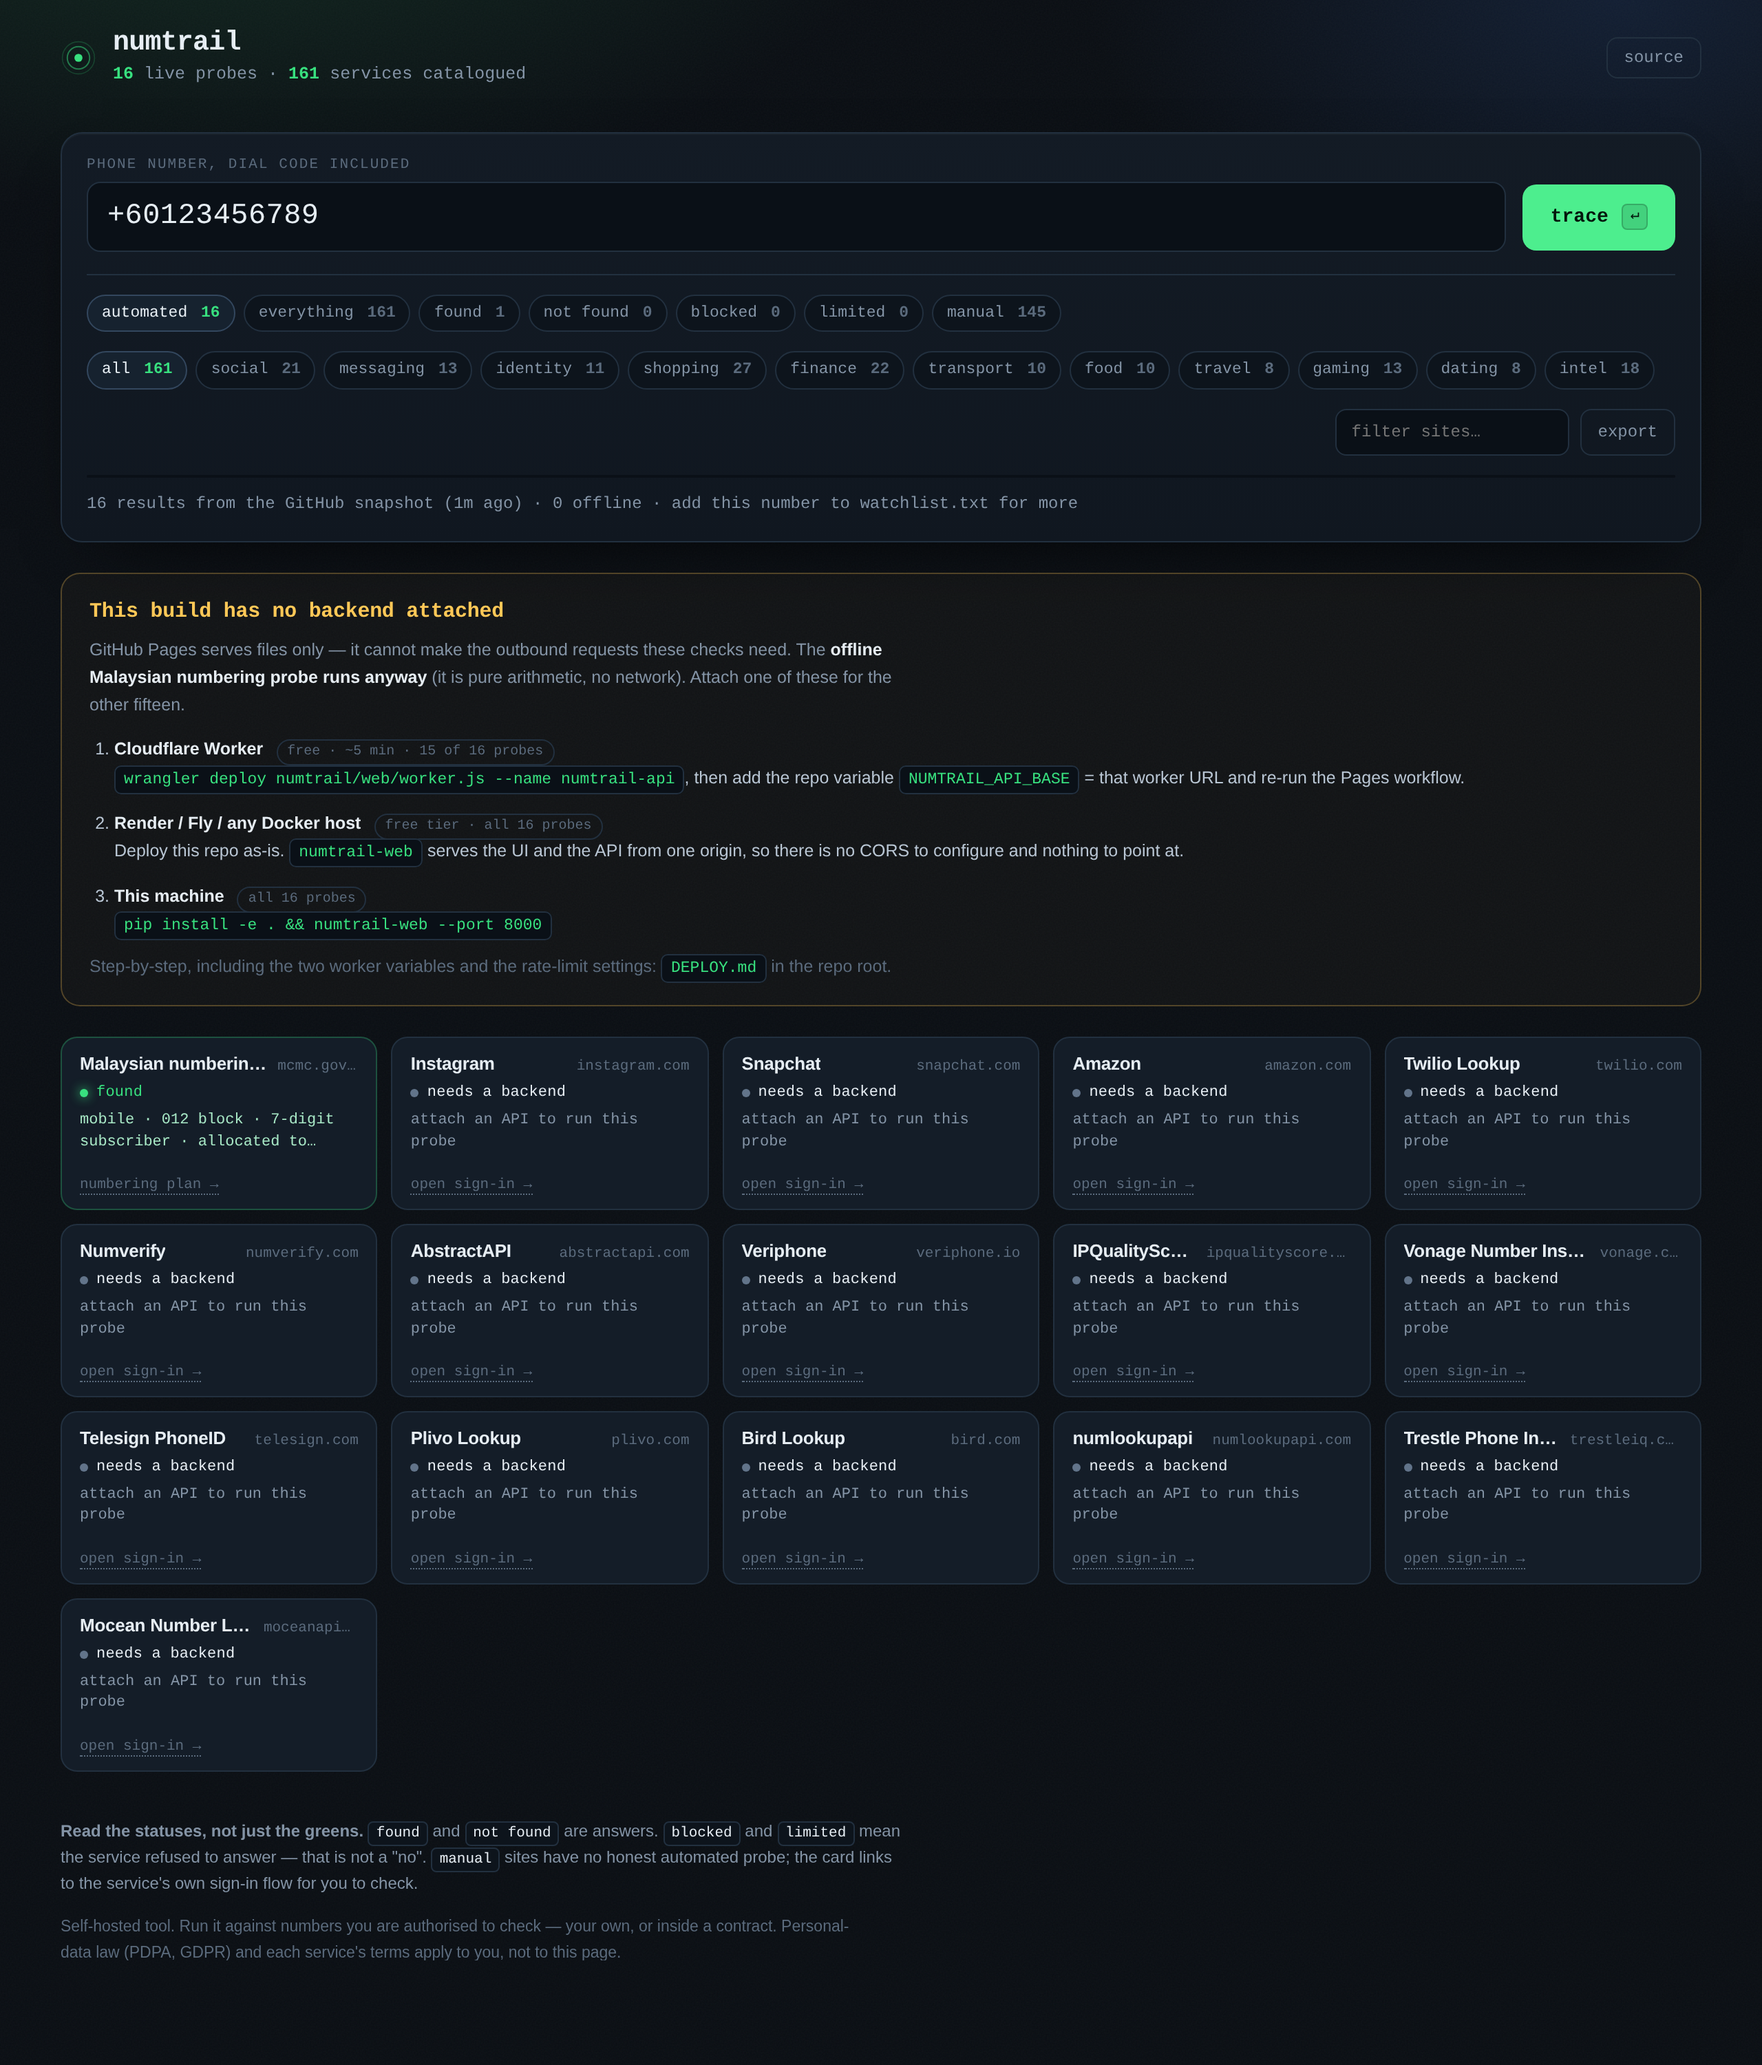
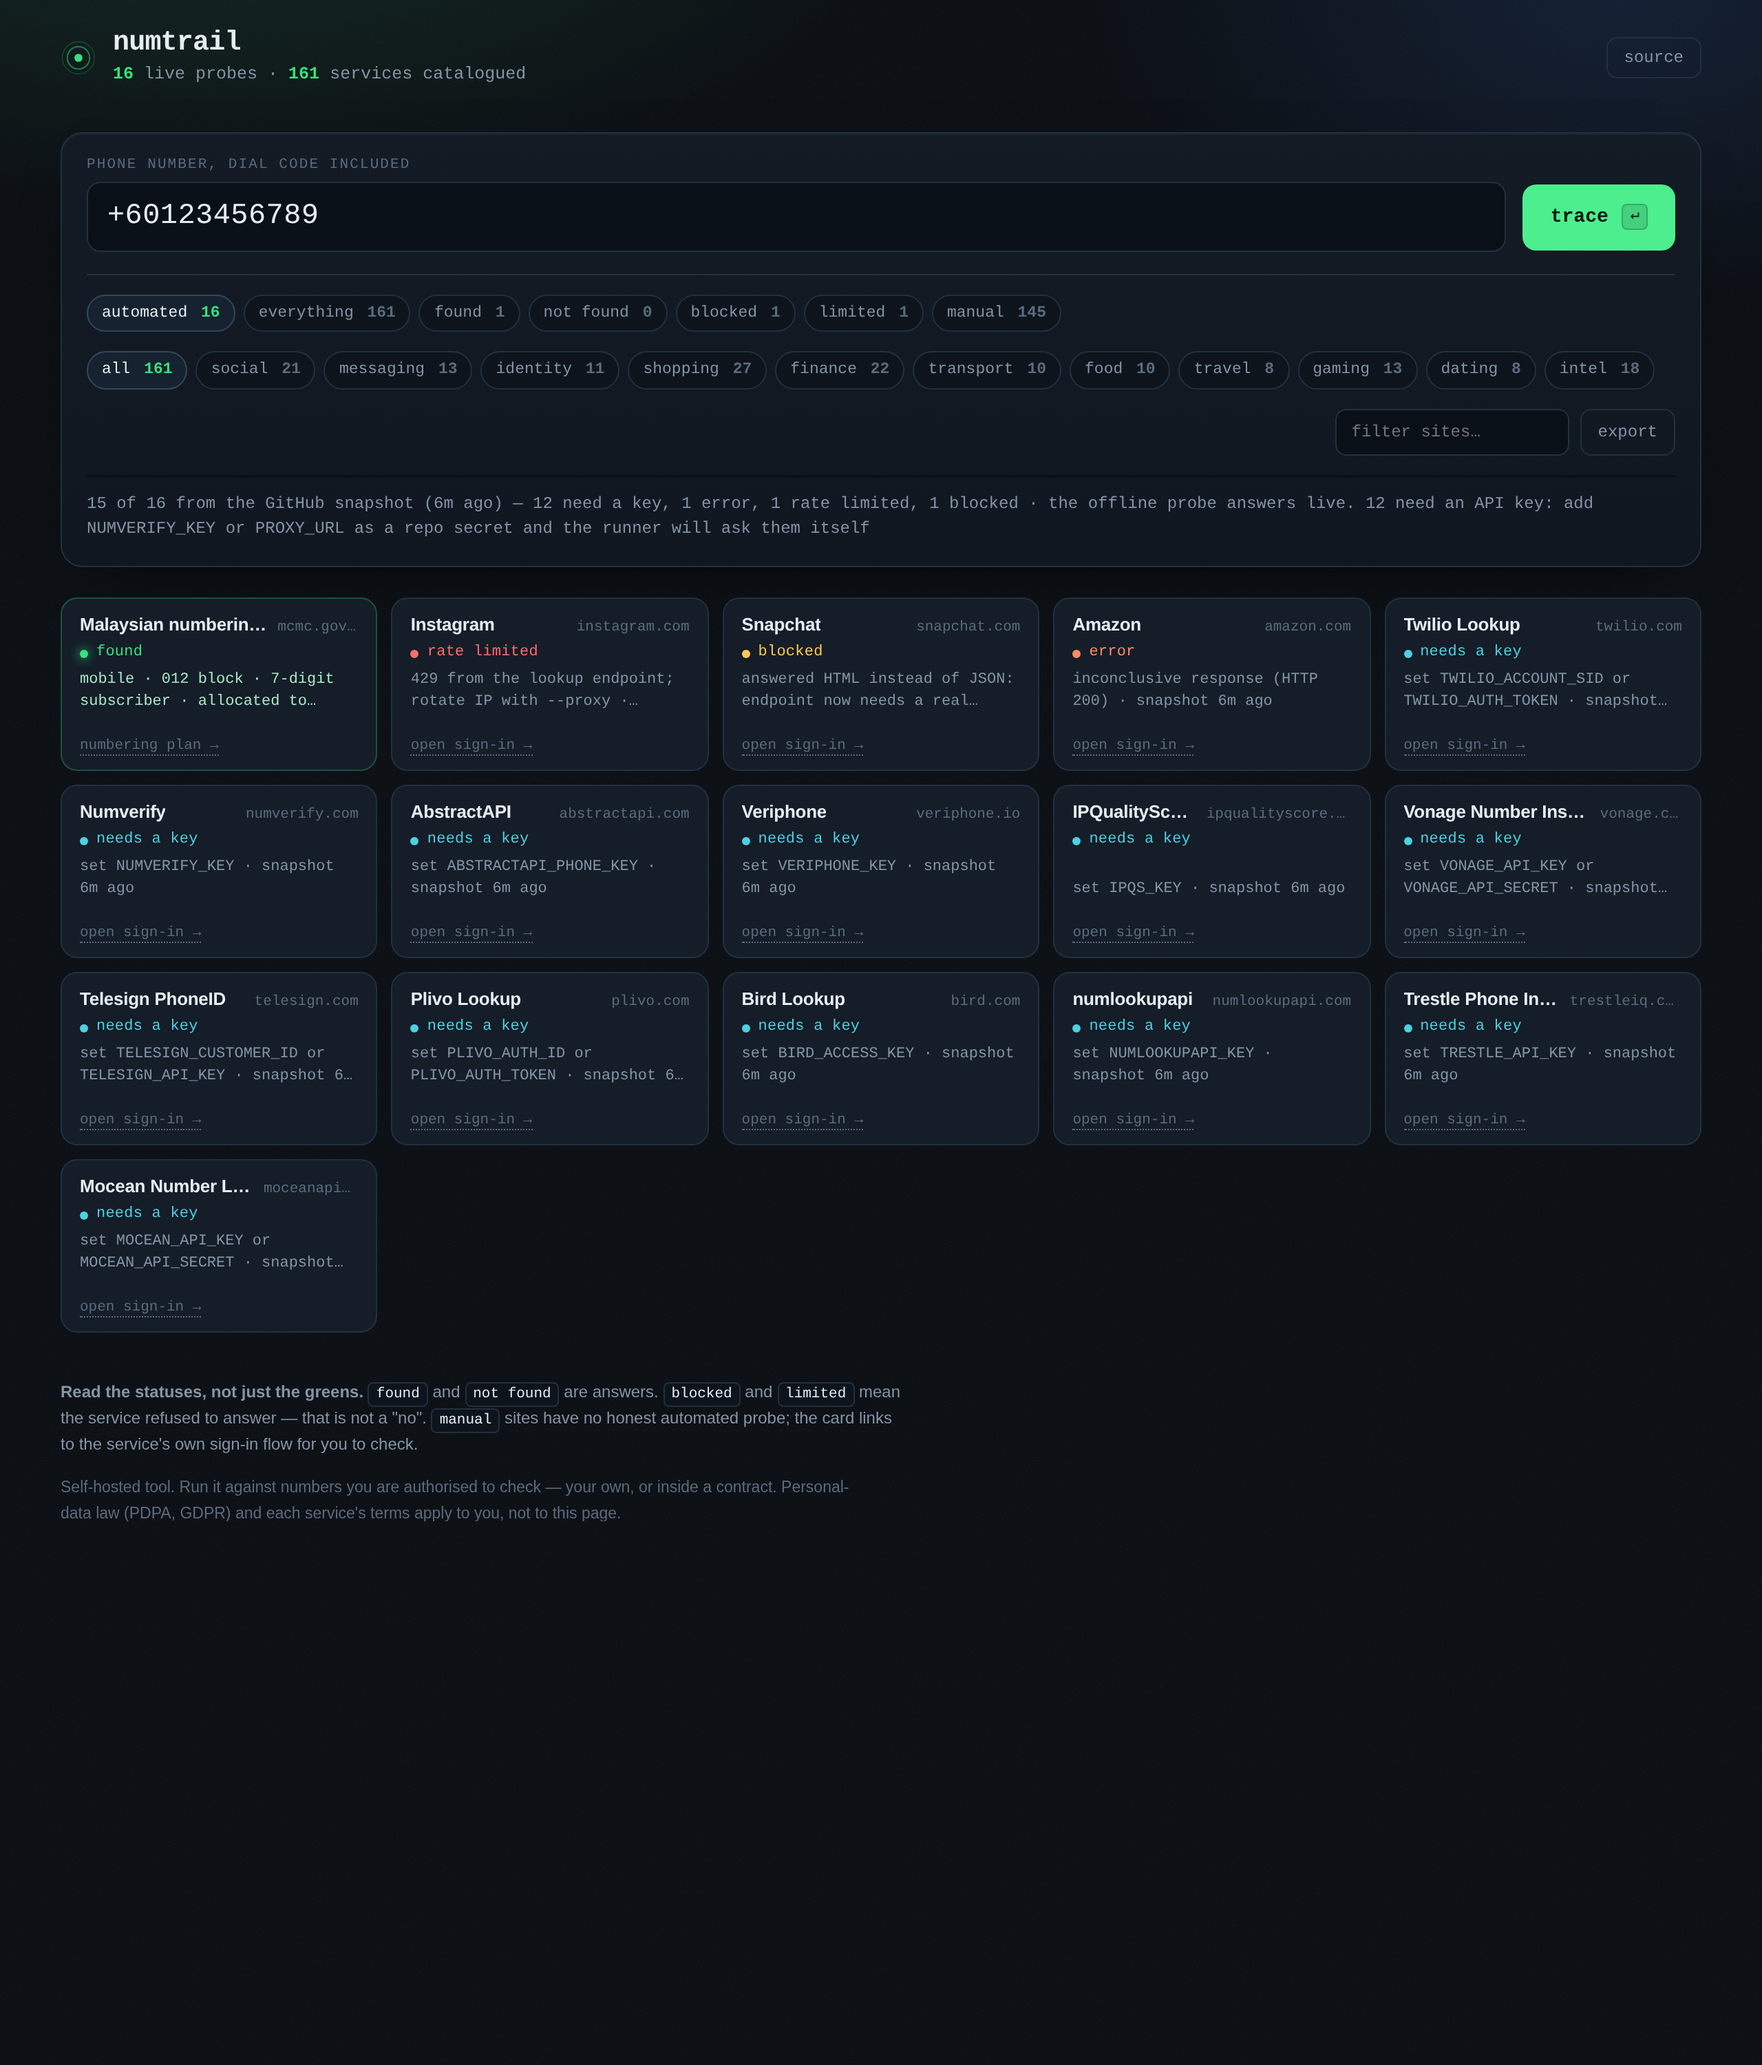
docs(web): show the offline answer in full, record what a bare snapshot really returns

diff --git a/numtrail/web/static/styles.css b/numtrail/web/static/styles.css
@@ -179,6 +179,9 @@ main { max-width: 1400px; margin: 0 auto; padding: 12px clamp(16px, 4vw, 44px) 6
   overflow: hidden; margin-top: auto;
 }
 .card .detail:empty { display: none; }
+/* The offline probe is the one answer this page computes itself — never clamp it. */
+.card[data-local="1"] .detail { display: block; -webkit-line-clamp: none; overflow: visible; }
+.card[data-local="1"] { grid-column: span 2; }
 .card a.open {
   font: 500 10.5px/1 var(--mono); color: var(--faint); text-decoration: none;
   align-self: flex-start; border-bottom: 1px dotted currentColor;

diff --git a/numtrail/web/static/app.js b/numtrail/web/static/app.js
@@ -261,6 +261,7 @@
     const card = el.grid.querySelector(`[data-site="${result.module}"]`);
     if (!card) return;
     card.classList.remove("pending");
+    if (result.local) card.dataset.local = "1";
     card.dataset.status = result.status;
     const label = card.querySelector(".status span");
     const detail = card.querySelector(".detail");

diff --git a/README.md b/README.md
@@ -182,6 +182,12 @@ the scheduled run records real carrier results. Add `PROXY_URL` (a residential
 proxy) and the three bot-walled web probes start answering instead of returning
 `blocked` from a runner IP.
 
+A real run of this repo with no secrets, on `+60123456789`: **1 answered** (the
+offline numbering probe), 12 `needs_credentials`, 1 `blocked`, 1 `rate_limited`,
+1 `error`. That is the honest shape of a bare deploy — the runner holds no keys,
+and datacentre IPs get walled. The secrets above move those numbers; nothing here
+is simulated, so they are reported rather than dressed up.
+
 **The limit, stated plainly:** this serves the numbers in `watchlist.txt`, not
 arbitrary visitor input. Letting a web page trigger a workflow needs a token with
 `workflow` scope in client-side JS — which would hand anyone write access to your
